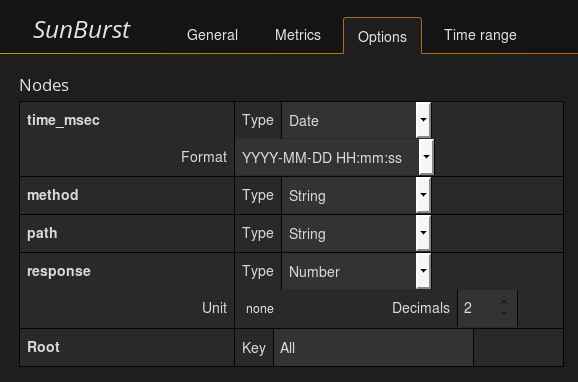
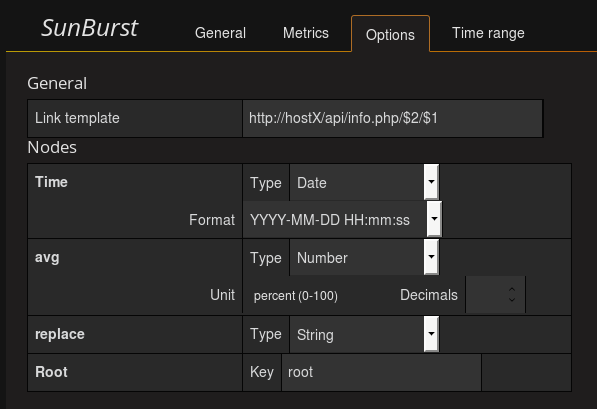
Update

diff --git a/README.md b/README.md
@@ -1,13 +1,13 @@
 # grafana-sunburst-panel
 
-The sunburst panel is a more powerful pie chart.
-It can contain nested group data.
+The sunburst panel is a multi-level pie chart.
+It can contain hierarchical data.
 
 ![Graph](https://raw.githubusercontent.com/anzai/grafana-sunburst-panel/master/src/img/graph.png)
 
 ## Features
 
-### Tooltips
+### Tooltip
 
 Tooltip is shown on mouse over of each arch node.
 Tooltip of a node shows information about same-leveled nodes and its child nodes.
@@ -28,6 +28,31 @@ Tooltip of a node shows information about same-leveled nodes and its child nodes
 If you click an node in the graph, the graph transforms to zoom and show the child nodes.
 
 ![Drill down](https://raw.githubusercontent.com/anzai/grafana-sunburst-panel/master/src/img/drilldown.png)
+
+### Options
+
+![options](https://raw.githubusercontent.com/anzai/grafana-sunburst-panel/master/src/img/options.png)
+
+![unit](https://raw.githubusercontent.com/anzai/grafana-sunburst-panel/master/src/img/unit.png)
+
+* Link template
+
+If link template isn't blank, tooltip contains a link with values of node and its ancectors.
+You can use $1, $2, $3 ... to add values to the link.
+
+* Nodes
+
+You can specify fields' types of a node.
+
+<dl>
+<dt>Number</dt>
+<dd>Add unit (%, $, bits/sec, ...)</dd>
+<dt>String</dt>
+<dd>Do nothing and just display.</dd>
+<dt>Date</dt>
+<dd>Convert numbers as unix timestamp to date text in specified format.</dd>
+</dl>
+
 
 ## Supported datasources and formats
 
